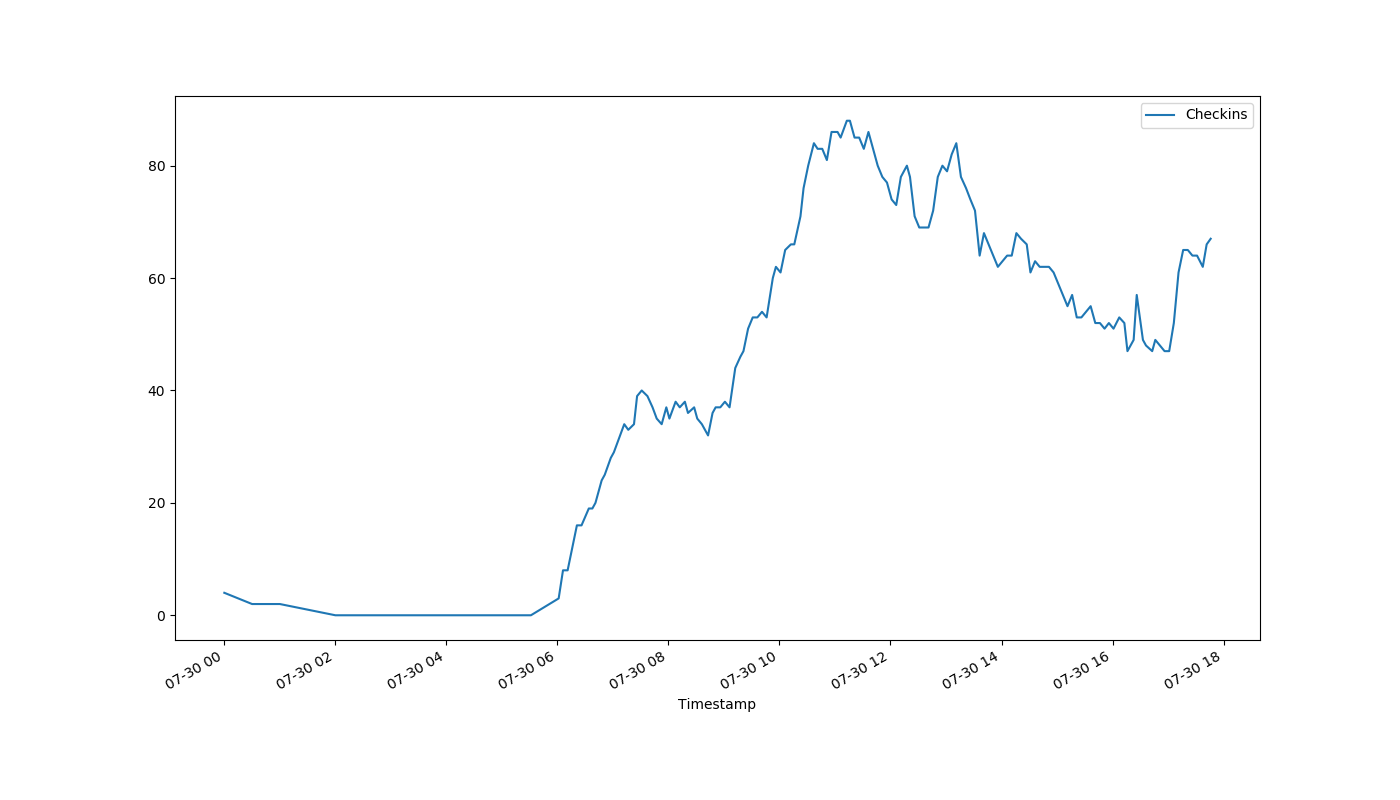
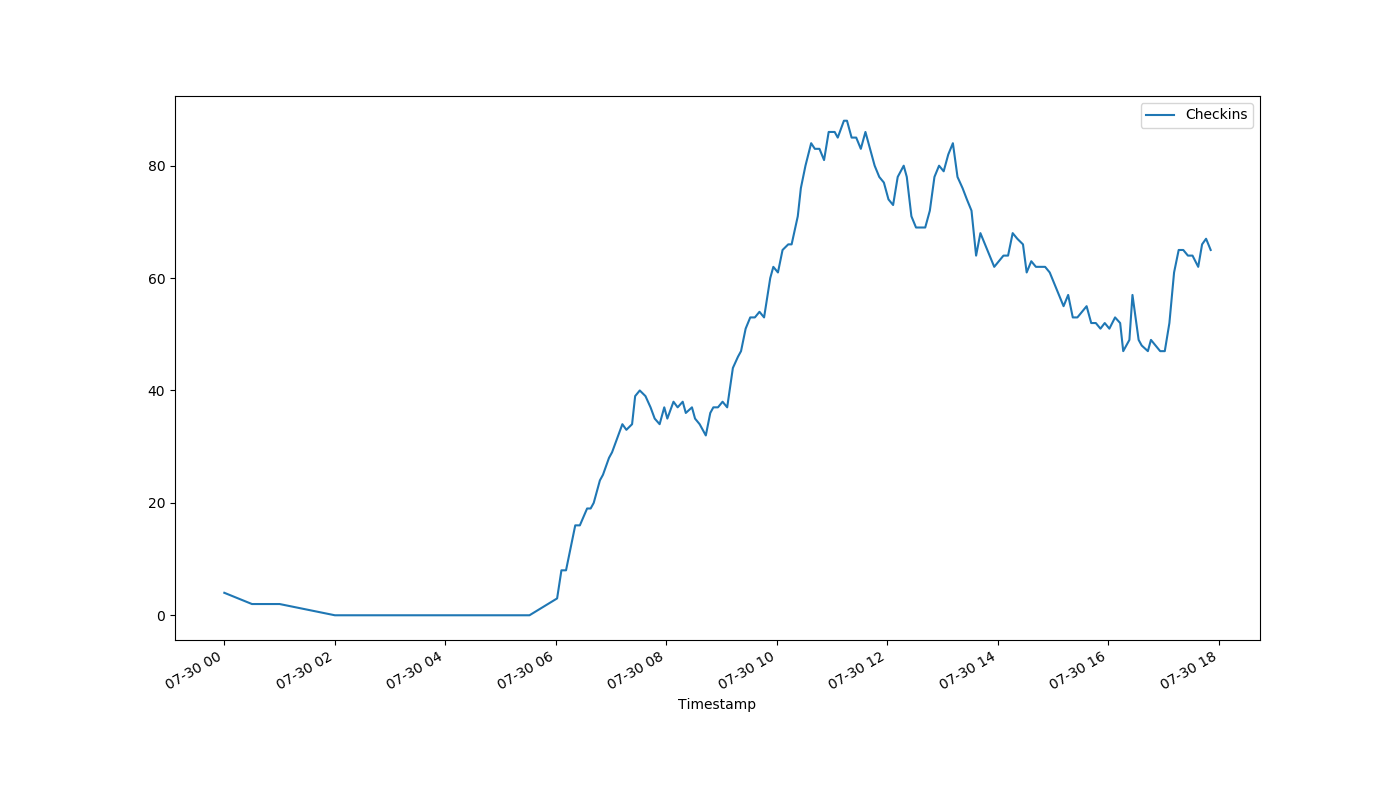
auto-Jul-30-17:52:44

diff --git a/index.html b/index.html
@@ -1,1 +1,1 @@
-<!DOCTYPE html><html><head><meta http-equiv="refresh" content="30"><link rel='stylesheet' href='holmcurrent.css'></head><body><p id='count'>67</p><div id='graph-wrap'><img id='graph' src='holmgraph-Jul-30.png'></div><p id='updated'>Last updated 17:46:04 / 17:46:00</p></body></html>
+<!DOCTYPE html><html><head><meta http-equiv="refresh" content="30"><link rel='stylesheet' href='holmcurrent.css'></head><body><p id='count'>65</p><div id='graph-wrap'><img id='graph' src='holmgraph-Jul-30.png'></div><p id='updated'>Last updated 17:51:04 / 17:51:00</p></body></html>
